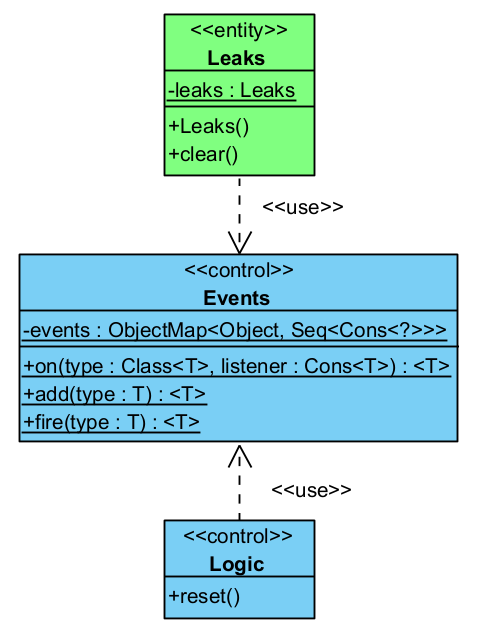
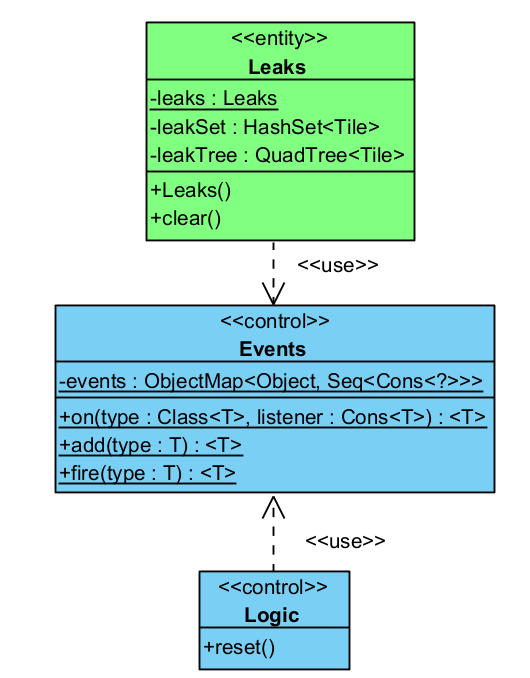
Diogo Antunes 67763: Added some private attributes to class diagram

diff --git a/SE202526/Milestone3/UserStory2/US2 Class Diagrams.md b/SE202526/Milestone3/UserStory2/US2 Class Diagrams.md
@@ -1,7 +1,6 @@
 # Class Diagrams
 
-Note: after teacher feedback, I classes not in the sequence diagrams from the class diagrams, including utility classes. It's worth noting that
-this considerably reduces the size of the class diagrams, as I feel the other classes helped provide an explanation.
+Note: after teacher feedback, I removed classes not in the sequence diagrams from the class diagrams (where it doesn't break structure), including utility classes.
 However, I kept classes in cases where:
 - They were the class types of data returned in the sequence diagrams but where the classifier was not necessary to call for methods (eg: only public attributes of the class were used)
 - They are interfaces or extended by classes present in the sequence diagram (where the method called in the sequence diagram belongs to the abstract super). Eg. ``ApplicationCore`` in **UpdateBuilding**
@@ -63,9 +62,7 @@ adds an instance of ``Logic`` (an implementation of ``ApplicationListener``), am
 
 As such, when ``ClientLauncher`` calls ``update()`` at a regular interval(which involves calling ``super.update()``),
 it calls the saved ``Logic`` instance's ``update()`` method too. This gets passed on as:  
-``Logic``-->``Groups``-->``EntityGroup<Entityc>``
-
-``EntityGroup<Entityc>`` then calls the ``update()`` method on each instance of ``Entityc`` that it holds, which includes buildings that passing around liquid.
+``Logic``-->``Groups``, and in the data structure that holds instances of ``Entityc`` calls ``update()`` for each of them, including the ``ConduitBuild`` we're looking for in particular.
 As seen in the diagram, one of these ``Entityc`` can be implemented by a ``Building``, which will call the ``updateTile()`` method during ``update()``.
 The content of this method differs greatly with the purpose of the block type, but for ``ConduitBuild``, it involves sending the liquid forward, and
 for the **new functionality**, checking for leaks (updating the ``Leaks`` singleton).  
@@ -76,7 +73,7 @@ That functionality was separated into a Behavior fragment due to being common to
 
 This class diagram reflects the extended behaviour of ``updateTile()`` for a conduit building. After pushing forward contained liquid,
 it communicates with the ``Leaks`` singleton by calling ``checkLeak(this)`` to tell the singleton that changes may have occurred. To even verify that the leak is worth checking, the method
-checks that the building is of a block type that can leak, and that the building team is the same as the player team.
+checks that the building is of a block type that can leak (is a ``Conduit`` block with attribute ``leaks`` true), and that the building team is the same as the player team.
 The tile connected to the one being checked is obtained via calling ``nearby()`` on the building's tile.
 It's checked for solidity to indicate if there is currently a leak (different to checking if there used to be a leak -> checking if the tile is stored in the ``Leaks`` instance).
 The ``checkLeak`` method, checks for a transition from *not leaking -> leaking* and vice versa and in such case adds/removes the tile
@@ -102,10 +99,7 @@ As such:
 
 Note on stereotypes:  
 I consider the renderers to be of the **control** stereotype as they communicate with the lower
-structures that hold the data for the on-screen pixels.  
-I also consider *Block* to be control as there's one per type of block in the game for which
-it performs a set of functionalities, while there's an instance of building, per building block in the game.
-Pal instantiates colors and nothing else, so it doesn't perform a specific function aside from holding **Colors**.
+structures that hold the data for the on-screen pixels.
 ### - Minimap Update
 - ``update()`` in ``MinimapRenderer`` goes through pending updates for world positions that were sent for update
   (the global Vars can translate these into tiles, and then blocks, from which a color can be fetched).
